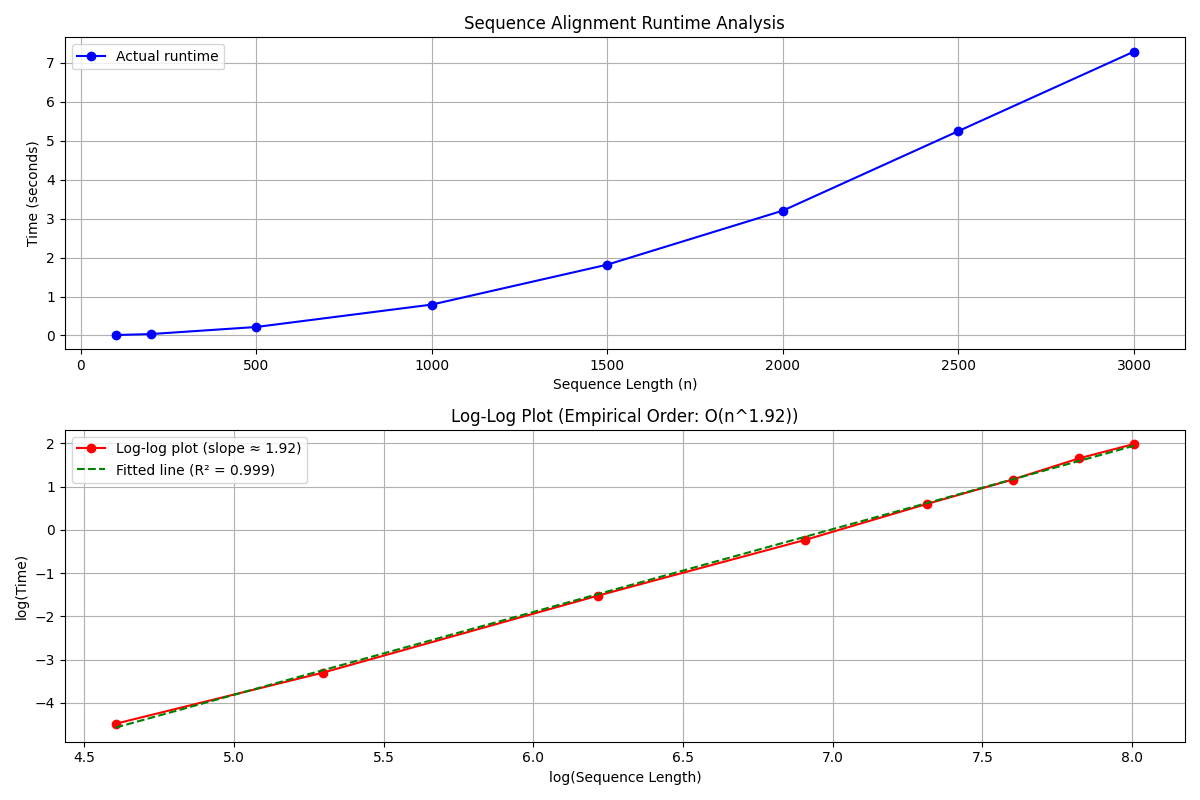
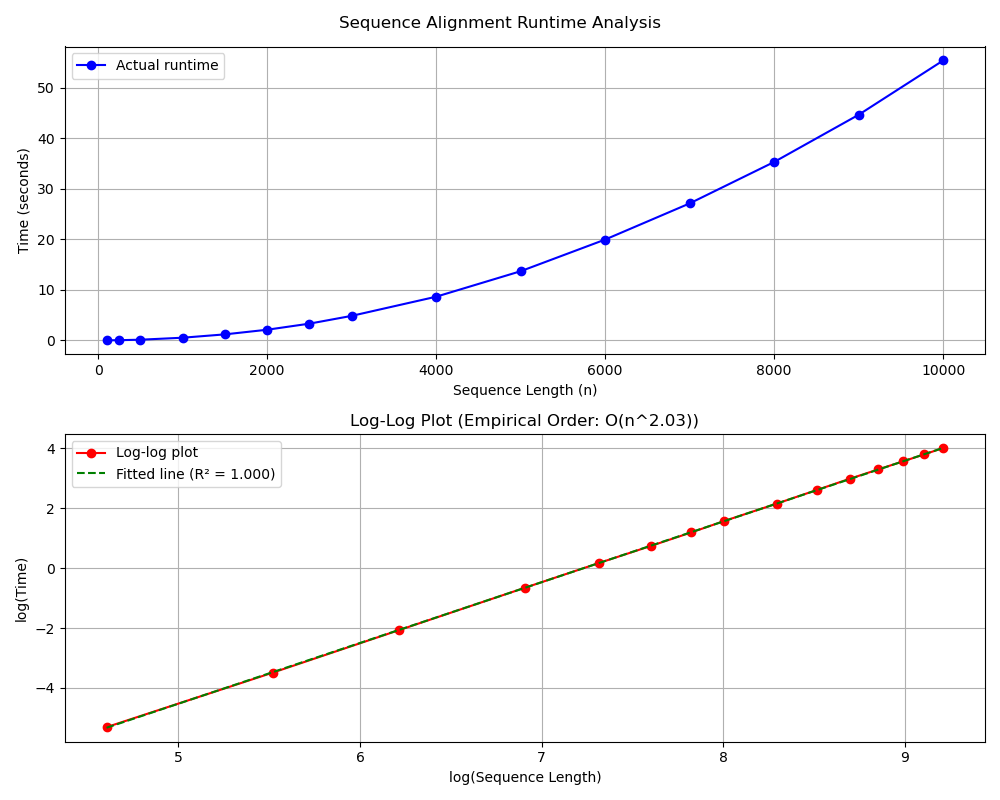
Extend runtime analysis with larger sequence lengths
- Expand sequence lengths in run_time_analysis() from 3000 to 10000
- Update runtime analysis plot to reflect extended input range
- Regenerate cost check results file

diff --git a/alignseq.py b/alignseq.py
@@ -210,7 +210,7 @@ def run_time_analysis():
     alphabet, cost_matrix = read_cost_matrix('imp2cost.txt')
     
     # Sequence lengths to test
-    lengths = [100, 250, 500, 1000, 1500, 2000, 2500, 3000]
+    lengths = [100, 250, 500, 1000, 1500, 2000, 2500, 3000, 4000, 5000, 6000, 7000, 8000, 9000, 10000]
     
     # Store results
     results = {}
